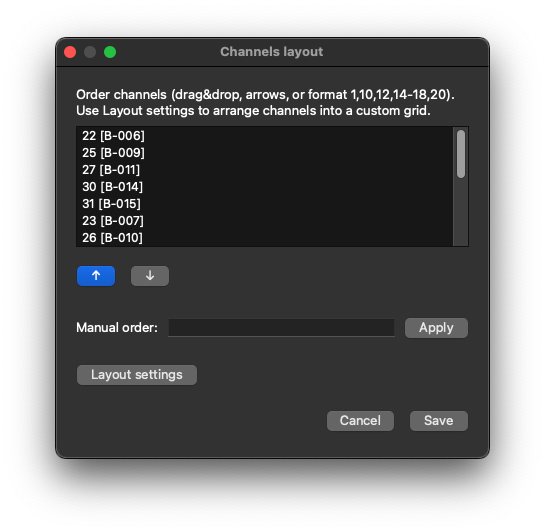
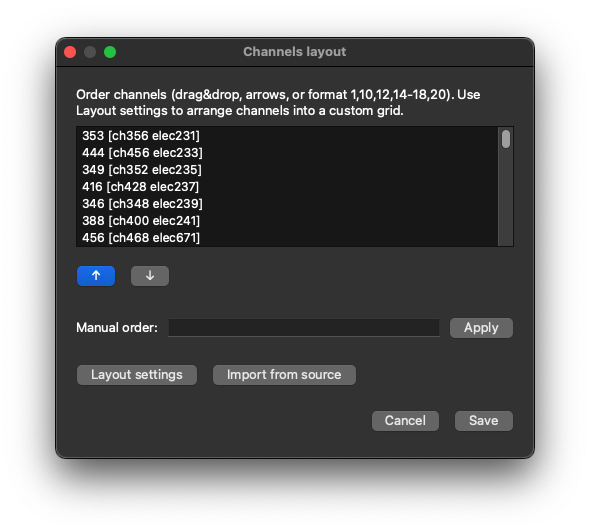
docs: updated channels management

Changed region(s): [[0.0936, 0.0602, 0.8422, 0.8722], [0.5927, 0.0602, 0.9358, 0.8722], [0.4055, 0.0902, 0.5927, 0.1203]]

diff --git a/docs/gui/settings_panel.md b/docs/gui/settings_panel.md
@@ -74,10 +74,26 @@ Each channel group has its own tab (tabs can be reordered; empty groups can be c
 Click **Layout** on a group to open **Channels layout**:
 
 - Reorder channels by drag-and-drop, up/down buttons, or a manual index list such as `1,10,12,14-18,20`.
+- **Import from source** restores a preferred electrode order from the original recording when metadata is available (see below).
 - Open **Layout settings** for the electrode grid editor.
 - Save applies the new order and layout table to the group.
 
 ![Channels layout dialog](../source/_static/gui/channels_layout.png)
+
+#### Import from source (channel order)
+
+**Import from source** rebuilds the channel list order using format-specific metadata from the original source next to the `*_ephyr` folder (or a file/folder you pick if auto-resolve fails). Only channels in the current group are reordered; the set of channels is unchanged.
+
+| Source type | Preferred order |
+|-------------|-----------------|
+| **NWB** | Electrode coordinates (`rel_x` / `rel_y`, or `x` / `y`) |
+| **Intan RHS / RHD** | Amplifier `custom_order` (then `native_order`); board ADC channels stay after amplifiers |
+| **XDAT** | Port, then channel name |
+| **DAQ** | Hardware channel number (`HwChannel`) |
+| **Neuralynx NCS** | `AcqEntName` (synthetic Events channel last, if present) |
+| **EDF / ABF / Open Ephys** | Natural sort of channel names from the header |
+
+If a format has no richer key, Ephyr falls back to acquisition order as stored in the converted experiment.
 
 ### Layout settings
 
@@ -89,7 +105,8 @@ The **Layout settings** dialog configures a custom grid for the group:
 | **Rows to show / Columns to show** | Visible window size (use the group minimap on the signal panel to pan). |
 | **Enable custom layout** | Use the grid instead of a single-column classic stack. |
 | **Draw borders** | Draw cell borders around channels on the plot. |
-| Grid checkboxes | Checked cells receive electrodes in channel order (top-left to bottom-right). Select all / Unselect all helpers are available. The number of checked cells must not exceed the number of channels in the group. |
+| Grid editor | Checked cells receive electrodes in channel order (top-left to bottom-right). The editor shows at most a **10×10** window of the full grid; use scrollbars to move across larger arrays. **Select all** / **Unselect all** apply to the whole grid. The number of checked cells must not exceed the number of channels in the group. |
+| **Import from source** | Currently supported for **NWB**: builds the grid and occupied cells from electrode `rel_x` / `rel_y` (or `x` / `y`), enables custom layout, and updates the channel order to match the spatial filling order. |
 
 ![Layout settings dialog](../source/_static/gui/layout_settings.png)
 

diff --git a/docs/files_format.md b/docs/files_format.md
@@ -25,6 +25,14 @@ Ephyr detects the format, converts it into a Ephyr experiment folder when needed
   (for example, `exp.abf` → `exp_ephyr`, folder `my_rec` → `my_rec_ephyr`).
 - For Intan recordings, the conversion dialog may offer **Group all Intan files into one sweep**.
 - If a valid `{stem}_ephyr` folder already exists next to the source, Ephyr loads it instead of converting again.
+- **NWB** conversion requires a regular `TimeSeries` / `ElectricalSeries` with a usable sample rate
+  (typically under `acquisition` or `processing`). Files that only contain spike-sorted `Units`
+  (no continuous voltage series) are not supported for conversion. Large HD-MEA NWB files are quantized
+  without a full-file peak scan; conversion still streams the entire series once into `data/`.
+
+After conversion, electrode order and (for NWB) spatial layout can be restored from the original source
+via **Channels layout → Import from source** and **Layout settings → Import from source**
+(see [Settings Panel](gui/settings_panel.md#channel-layout)).
 
 ## Ephyr files
 
@@ -68,7 +76,8 @@ User annotation and GUI state. Each session is a JSON file (for example `my_sess
 
 - event and period vocabularies and placements
 - experiment description text
-- GUI setup (visible window, channel groups, filters, add-on toggles, and related view state)
+- GUI setup (visible window, channel groups, filters, add-on toggles, layer visibility such as traces /
+  channel names / events / periods, and related view state)
 
 Created when you create or save a session. Switch between sessions without reloading the signal data.
 

diff --git a/docs/gui/signal_panel.md b/docs/gui/signal_panel.md
@@ -9,7 +9,8 @@ Signal samples are loaded from the Ephyr experiment folder (`data/sweep_*/*.samp
 
 Each group can show a classic single-column stack of channels or a custom electrode grid (see
 [Channel Management](settings_panel.md#channel-management)). Per-channel scale, color, Y offset, and
-optional clipping apply when drawing.
+optional clipping apply when drawing. Channel name labels on each cell can be hidden with
+**View → Channel names**.
 
 ## Events and periods
 
@@ -20,7 +21,7 @@ On top of the traces you can place:
 - **Periods** — labeled intervals (optionally spanning sweeps). Use the Periods menu to manage vocabulary
   and to add intervals with two clicks.
 
-Visibility of traces, events, and periods is controlled from **View** and stored in the session.
+Visibility of traces, channel names, events, and periods is controlled from **View** and stored in the session.
 
 ## Add-on overlays
 

diff --git a/docs/analysis.md b/docs/analysis.md
@@ -56,7 +56,9 @@ follows the same API and extends it with reading spike detection results from di
 
 - Labels: `events`, `events_vocabulary`, `periods`, `periods_vocabulary`
 - Text: `experiment_description`
-- View: `gui_setup` (`current_sweep_idx`, `start_point`, `duration_ms`, `channels_groups`, `channels_setup`, …)
+- View: `gui_setup` (`current_sweep_idx`, `start_point`, `duration_ms`, `channels_groups`, `channels_setup`,
+  visibility flags such as `traces_are_shown` / `channel_names_are_shown` / `events_are_shown` /
+  `periods_are_shown`, …)
 - `events_table` rows: `name`, `sweep_idx`, `time_ms`, `is_bad`, `periods` (list of period names)
 
 ### Example script

diff --git a/docs/gui/menu.md b/docs/gui/menu.md
@@ -86,6 +86,7 @@ Checkable items that show or hide layers on the signal panel (and related naviga
 | Item | Purpose |
 |------|---------|
 | **Traces** | Show or hide waveform traces. |
+| **Channel names** | Show or hide channel name labels drawn on each channel cell. |
 | **Events** | Show or hide event markers. |
 | **Periods** | Show or hide period intervals and labels. |
 
